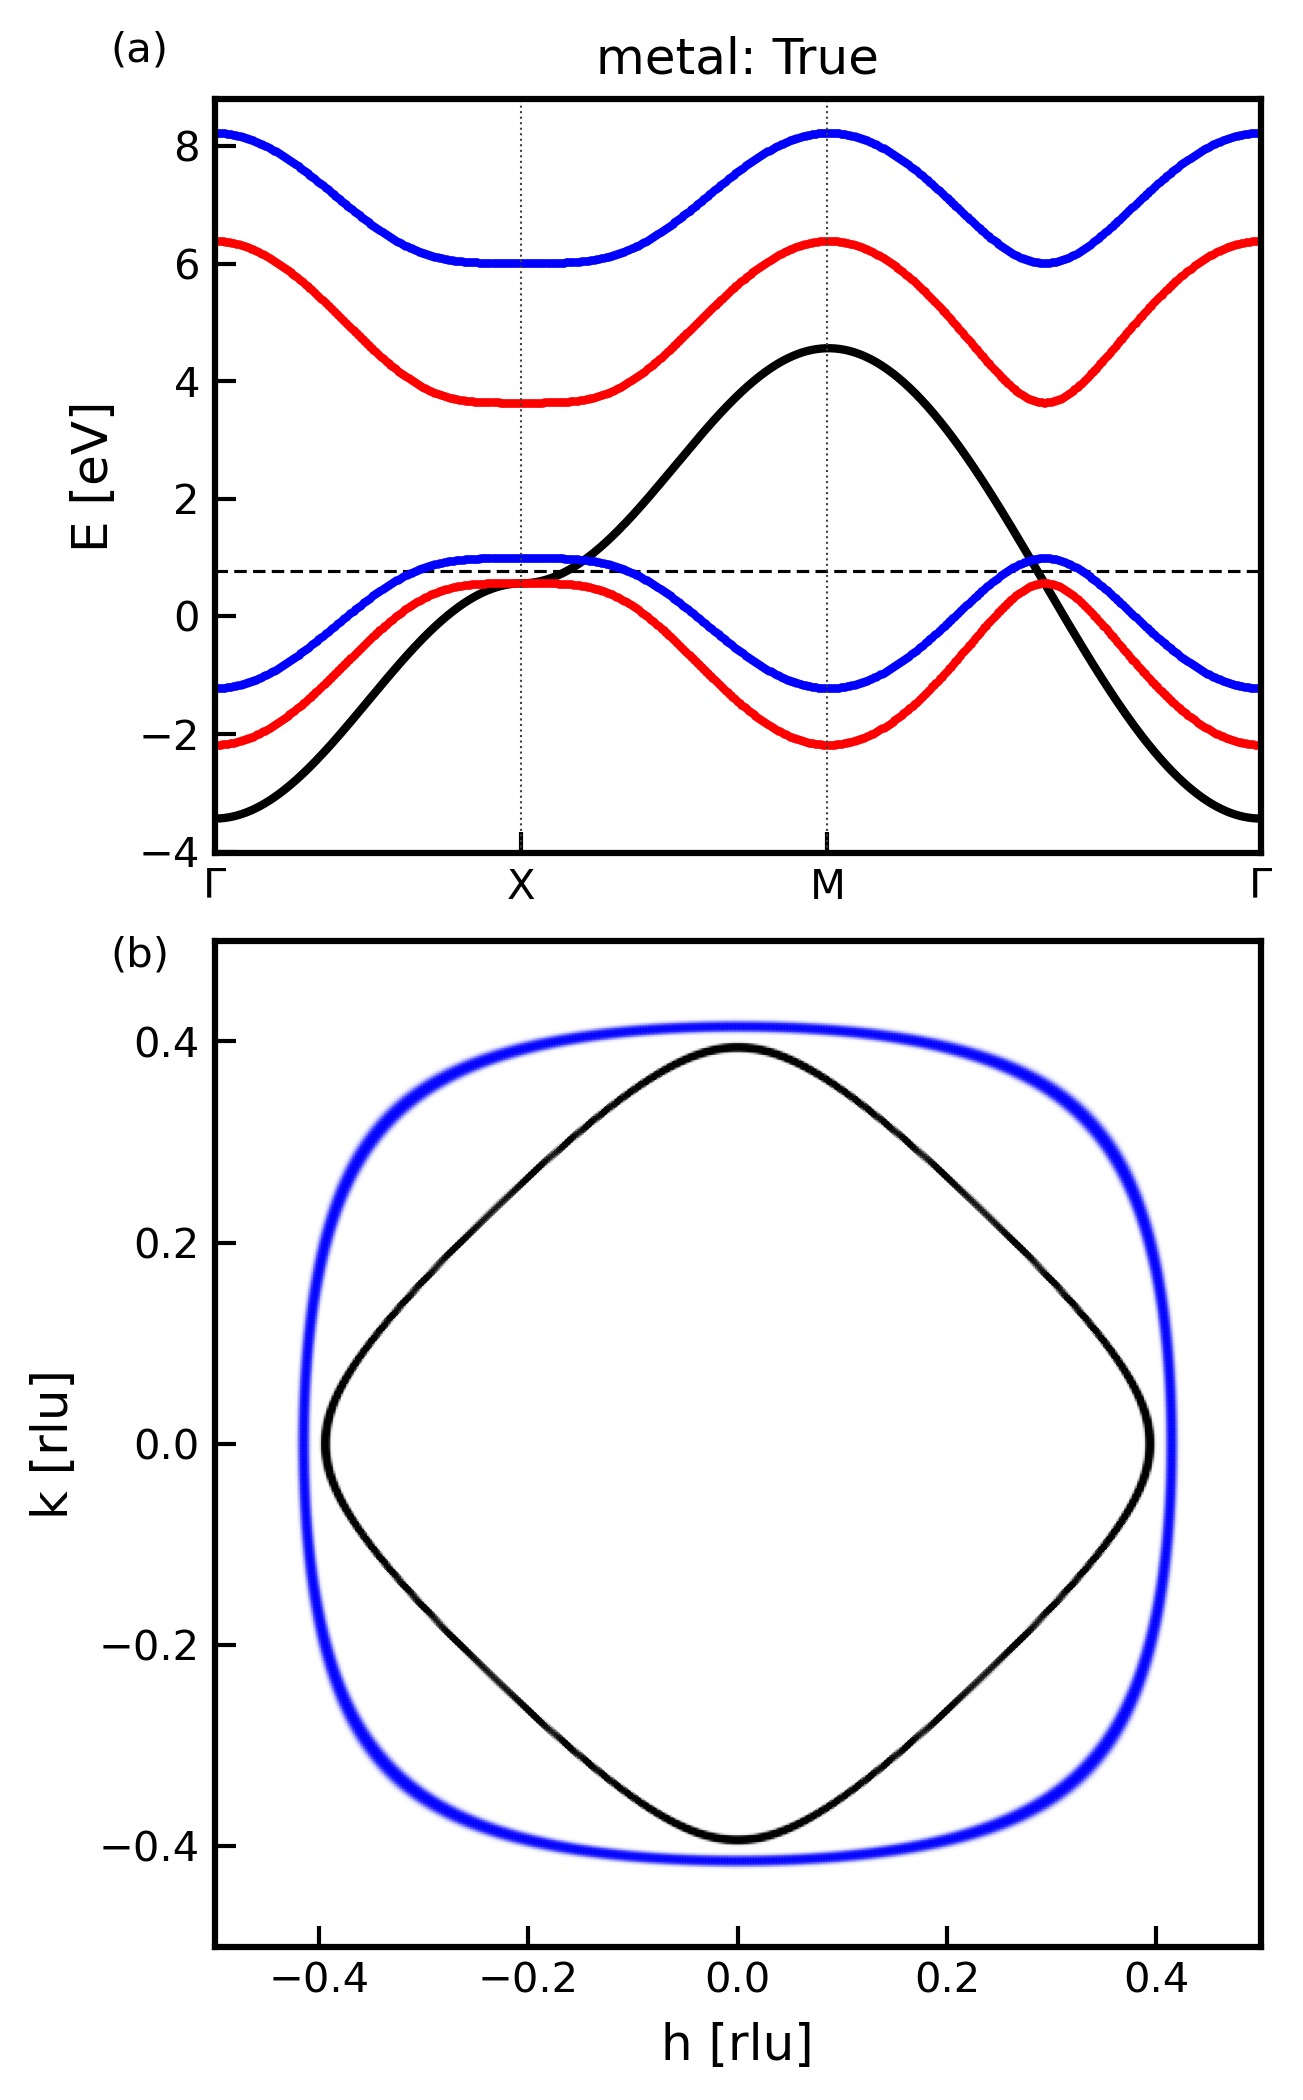
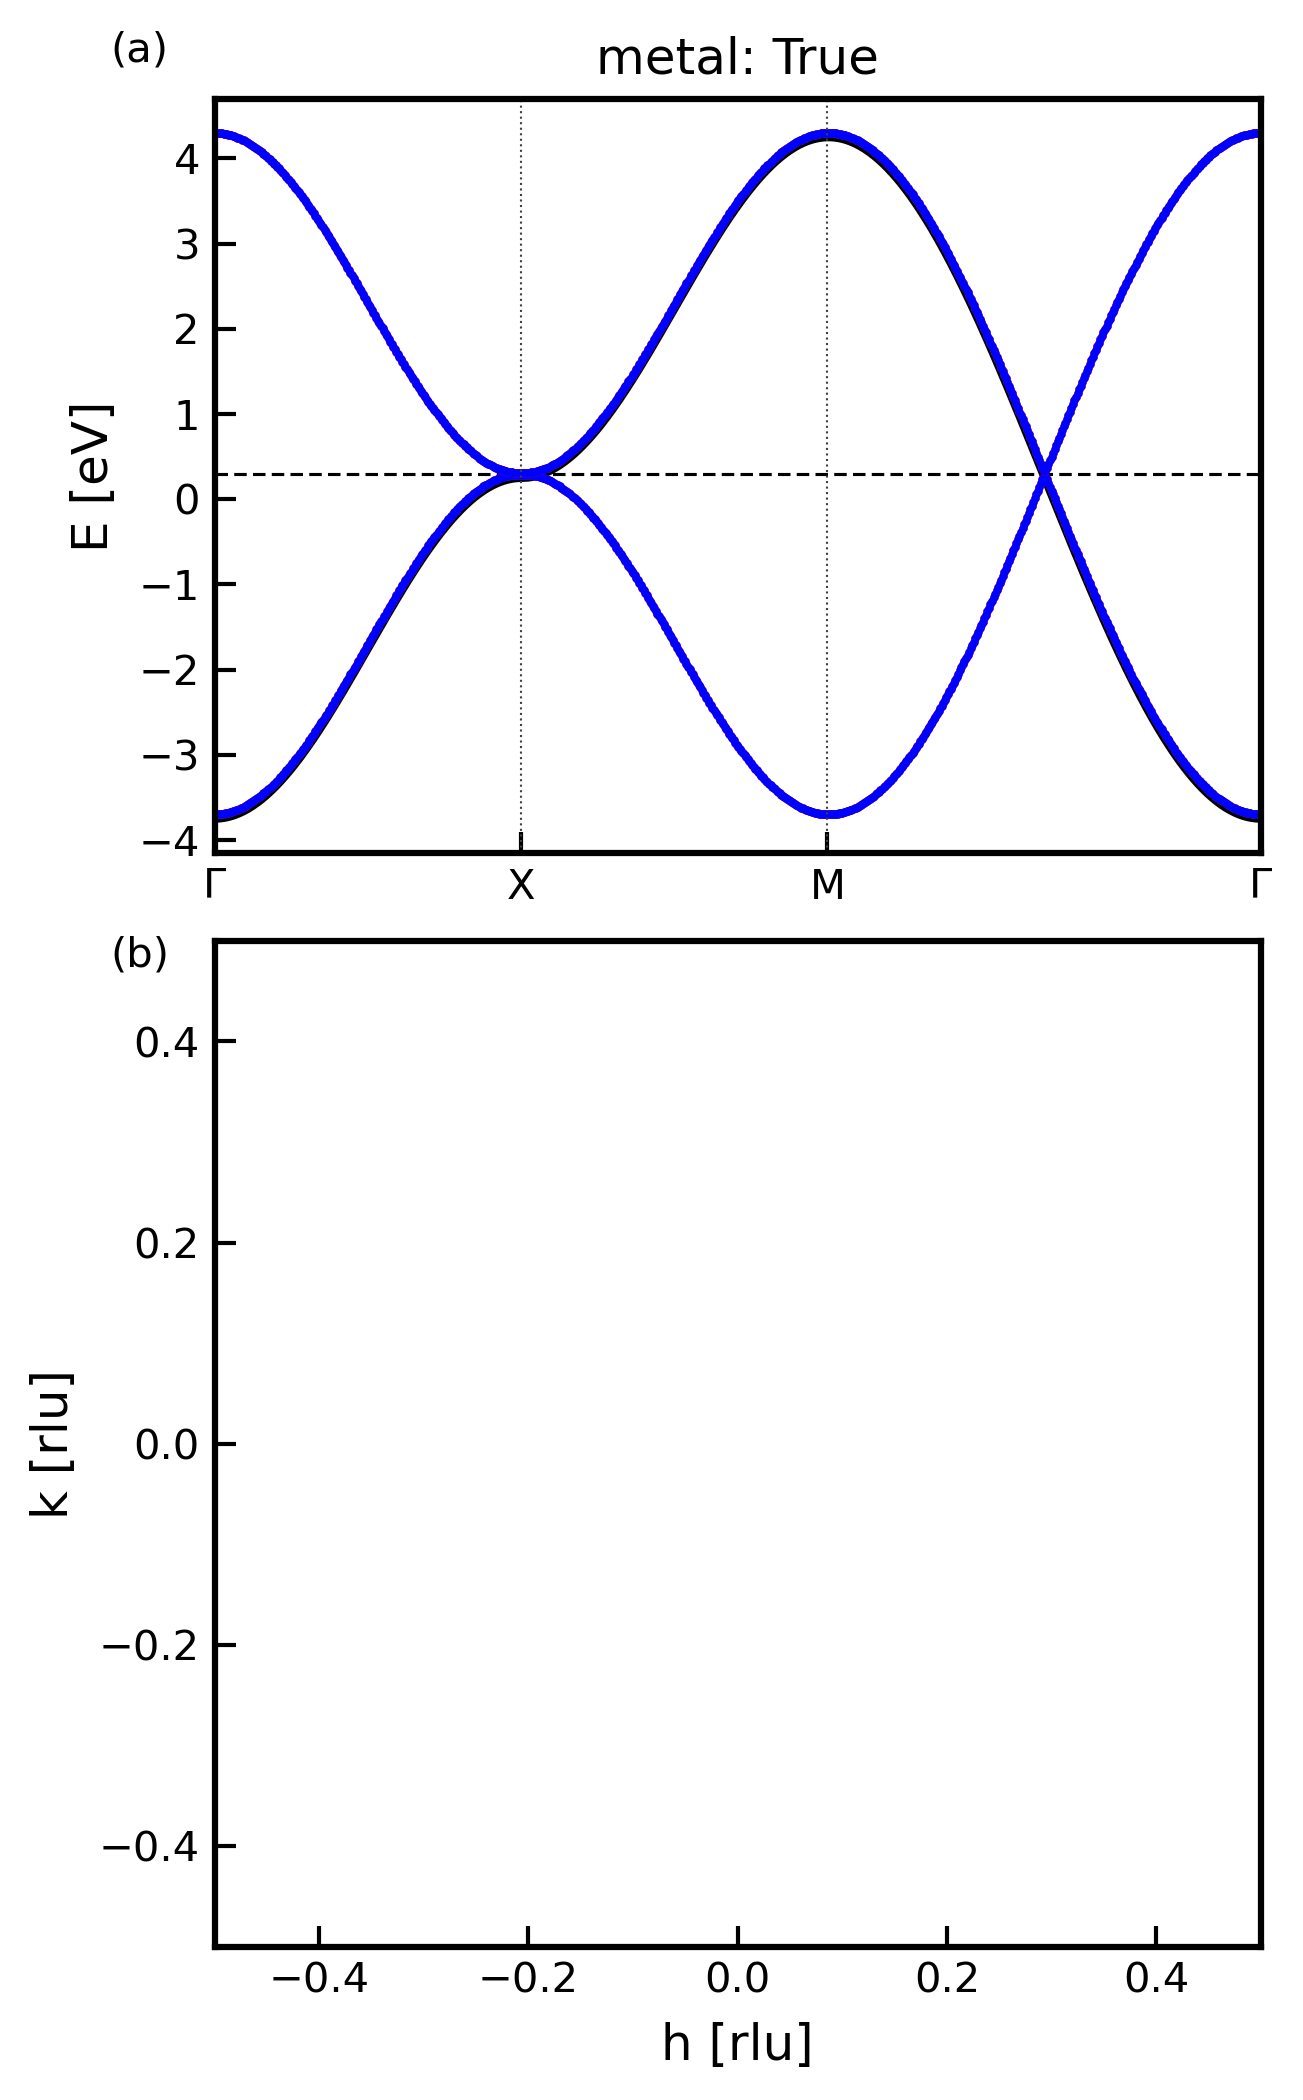
auto commit

diff --git a/paper/two_atom_cell/electrons/plot_unfold.py b/paper/two_atom_cell/electrons/plot_unfold.py
@@ -11,14 +11,18 @@ from calcs import calcs
 
 # --------------------------------------------------------------------------------------------------
 
-def get_points(eigs,ef,kpts,fwhm=0.025):
+def get_points(eigs,ef,kpts,fwhm=0.01):
 
     sigma = fwhm / 2.35482
 
-    fs_weights = np.exp(-0.5 * (eigs-ef)**2/sigma**2 ) 
+    # fs_weights = np.exp(-0.5 * (eigs-ef)**2/sigma**2 ) 
+    # fs_weights = fs_weights.sum(axis=1)  / eigs.shape[1]
+
+    fs_weights = ( np.abs(eigs-ef) < fwhm ).astype(int)
     fs_weights = fs_weights.sum(axis=1)  / eigs.shape[1]
 
-    inds = np.flatnonzero( np.greater(fs_weights,0.000001) )
+    # inds = np.flatnonzero( np.greater(fs_weights,0.000001) )
+    inds = np.flatnonzero( fs_weights > 1 )
 
     x = kpts[inds,0]
     y = kpts[inds,1]
@@ -95,8 +99,8 @@ def plot_electrons(bands_file,fs_file,prim_bands_file,prim_fs_file):
         kpts = db['kpts_rlu'][...]
         metal = db['is_metal'][...]
 
-    x, y, fs_weights = get_points(eigs[...,0],ef,kpts) 
-    ax[1].scatter(x,y,s=0.5,c='k',alpha=fs_weights,zorder=100)
+    # x, y, fs_weights = get_points(eigs[...,0],ef,kpts) 
+    # ax[1].scatter(x,y,s=0.5,c='k',alpha=fs_weights,zorder=100)
 
     with h5py.File(fs_file,'r') as db:
 
@@ -112,27 +116,34 @@ def plot_electrons(bands_file,fs_file,prim_bands_file,prim_fs_file):
         weights = db['_unfolding_weights'][...]
         fs_weights = db['_fs_weights'][...]
 
+    # x, y, fs_weights = get_points(eigs[...,0],ef,kpts) 
+    # if fs_weights.size != 0:
+    #     ax[1].scatter(x,y,s=0.5,c='r',alpha=fs_weights,zorder=100)
+    # x, y, fs_weights = get_points(eigs[...,1],ef,kpts) 
+    # if fs_weights.size != 0:
+    #     ax[1].scatter(x,y,s=0.5,c='b',alpha=fs_weights,zorder=100)
+
     x, y, fs_weights = get_points(eigs[...,0],ef,kpts) 
     if fs_weights.size != 0:
-        ax[1].scatter(x,y,s=0.5,c='r',alpha=fs_weights,zorder=100)
+        ax[1].scatter(x,y,s=0.5,c='r',alpha=1.0,zorder=100)
     x, y, fs_weights = get_points(eigs[...,1],ef,kpts) 
     if fs_weights.size != 0:
-        ax[1].scatter(x,y,s=0.5,c='b',alpha=fs_weights,zorder=100)
+        ax[1].scatter(x,y,s=0.5,c='b',alpha=1.0,zorder=100)
 
-    if weights.size != 0:
+    # if weights.size != 0:
 
-        norm_weights = weights / weights.max() 
+    #     norm_weights = weights / weights.max() 
 
-        shape = fermi_surface.shape
-        num_kpts = shape[0]
-        num_bands = shape[1]
-        num_spin = shape[2]
+    #     shape = fermi_surface.shape
+    #     num_kpts = shape[0]
+    #     num_bands = shape[1]
+    #     num_spin = shape[2]
 
-        # x, y = mapped_kpts[:,0], mapped_kpts[:,1]
-        # # ax[1].scatter(x,y,s=0.5,c='r',alpha=(fs_weights[:,:,0]*norm_weights[:,:,0]).sum(axis=1))
-        # # ax[1].scatter(x,y,s=0.5,c='b',alpha=(fs_weights[:,:,1]*norm_weights[:,:,1]).sum(axis=1))
-        # ax[1].scatter(x,y,s=0.5,c='r',alpha=(fs_weights[:,:,0]).sum(axis=1)/2.0)
-        # ax[1].scatter(x,y,s=0.5,c='b',alpha=(fs_weights[:,:,1]).sum(axis=1)/2.0)
+    #     x, y = mapped_kpts[:,0], mapped_kpts[:,1]
+    #     # ax[1].scatter(x,y,s=0.5,c='r',alpha=(fs_weights[:,:,0]*norm_weights[:,:,0]).sum(axis=1))
+    #     # ax[1].scatter(x,y,s=0.5,c='b',alpha=(fs_weights[:,:,1]*norm_weights[:,:,1]).sum(axis=1))
+    #     ax[1].scatter(x,y,s=0.5,c='r',alpha=(fs_weights[:,:,0]).sum(axis=1)/2.0)
+    #     ax[1].scatter(x,y,s=0.5,c='b',alpha=(fs_weights[:,:,1]).sum(axis=1)/2.0)
 
     ax[0].set_title(f'metal: {metal}')
 

diff --git a/paper/two_atom_cell/electrons/m_unfold_electrons.py b/paper/two_atom_cell/electrons/m_unfold_electrons.py
@@ -114,7 +114,7 @@ class c_unfold_electrons:
 
         _eigs = self.sc_eigs
         _ef = self.sc_ef
-        fwhm = 0.01
+        fwhm = 0.05
         sigma = fwhm / 2.35482 
         fs_weights = np.exp(-0.5 * (_eigs-_ef)**2/sigma**2 ) 
 
